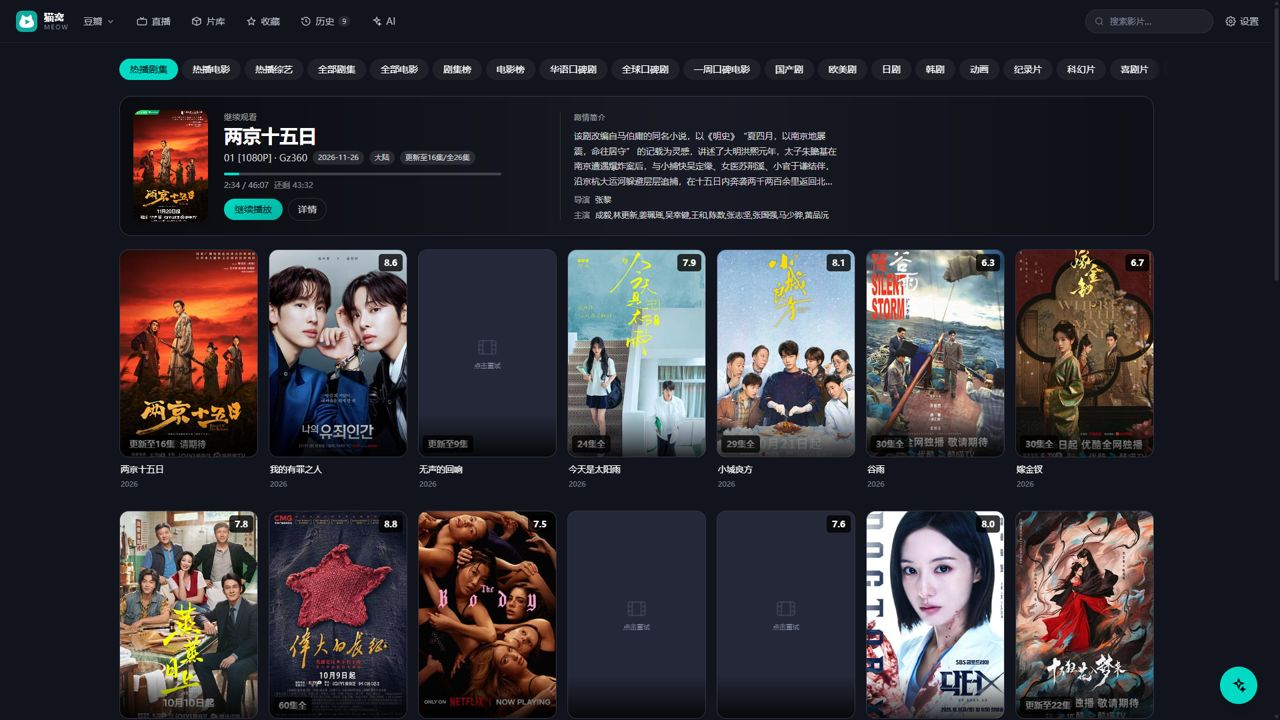
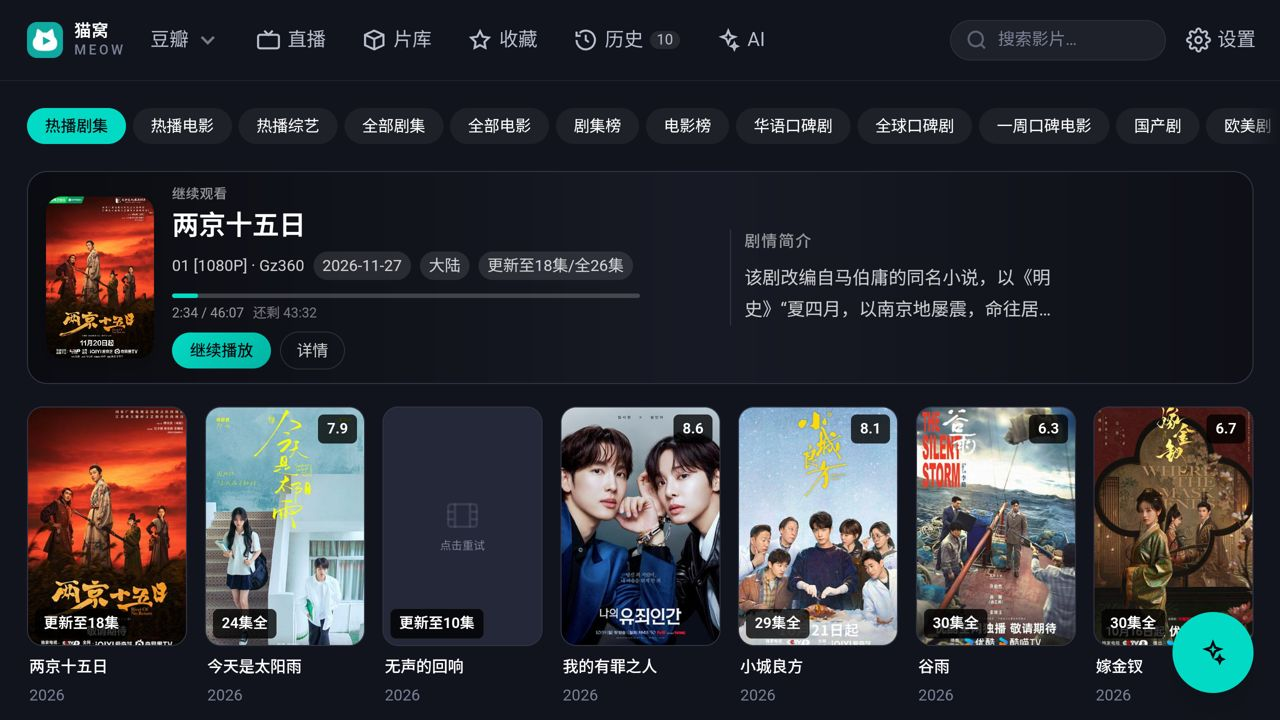
feat: 收录截图改为 TV APK 真机实装运行图

diff --git a/影视/猫窝Meow/README.md b/影视/猫窝Meow/README.md
@@ -24,27 +24,23 @@ APK SHA256：`1aa9fa97d2aa2e1955d1bab611936aa9ebd6ca8df63e6c2adca1d6a8b3b82f70`
 
 ## 测试截图
 
-以下均为大屏横屏（1920×1080）实机截图，覆盖主要页面：
+以下均为 Android TV 端 APK 实装运行截图（MuMu 模拟器 TV 形态，2560×1440 横屏）：
 
-| 首页 | 分类 | 详情 |
+| 首页 | 详情 | 搜索 |
 | --- | --- | --- |
-| ![首页](screenshots/01-home.jpg) | ![分类](screenshots/02-category.jpg) | ![详情](screenshots/03-detail.jpg) |
+| ![首页](screenshots/01-home.jpg) | ![详情](screenshots/03-detail.jpg) | ![搜索](screenshots/04-search.jpg) |
 
-| 搜索 | 播放 | 片库 |
+| 历史 | 收藏 | 设置 |
 | --- | --- | --- |
-| ![搜索](screenshots/04-search.jpg) | ![播放](screenshots/10-play.jpg) | ![片库](screenshots/05-library.jpg) |
+| ![历史](screenshots/06-history.jpg) | ![收藏](screenshots/07-favorites.jpg) | ![设置](screenshots/08-settings.jpg) |
 
-| 历史 | 收藏 | 我的 |
-| --- | --- | --- |
-| ![历史](screenshots/06-history.jpg) | ![收藏](screenshots/07-favorites.jpg) | ![我的](screenshots/11-me.jpg) |
-
-| 设置 | AI 助手 | 运行日志 |
-| --- | --- | --- |
-| ![设置](screenshots/08-settings.jpg) | ![AI](screenshots/09-ai.jpg) | ![日志](screenshots/12-logs.jpg) |
+| AI 助手 | 直播播放 |
+| --- | --- |
+| ![AI](screenshots/09-ai.jpg) | ![直播播放](screenshots/10-play.jpg) |
 
 ## 测试信息
 
 - 测试时间：2026-11-27
-- 测试环境：`http://192.168.1.20:30010/app/meow/`（后端 136 站点，health ok）+ Android 模拟器横屏（1920×1080）
-- 测试版本：v1.2.28（versionCode 1228，minSdk 26 / targetSdk 34）
-- 测试内容：覆盖 15 个页面路由（首页、分类、详情、播放、投屏、搜索、我的、历史、直播、片库、离线、收藏、设置、AI、日志），应用正常渲染与交互，无崩溃。
+- 测试设备：MuMu Android 模拟器（TV 形态，2560×1440 横屏），直装 APK 实机运行
+- 测试版本：v1.2.28（versionCode 1228，minSdk 26 / targetSdk 34，与上方下载包同一构建）
+- 测试内容：首页浏览、影片详情、搜索、观看历史、收藏、设置、AI 助手、直播播放（iptv-org 源起播成功）；各页面正常渲染与交互，无崩溃。
